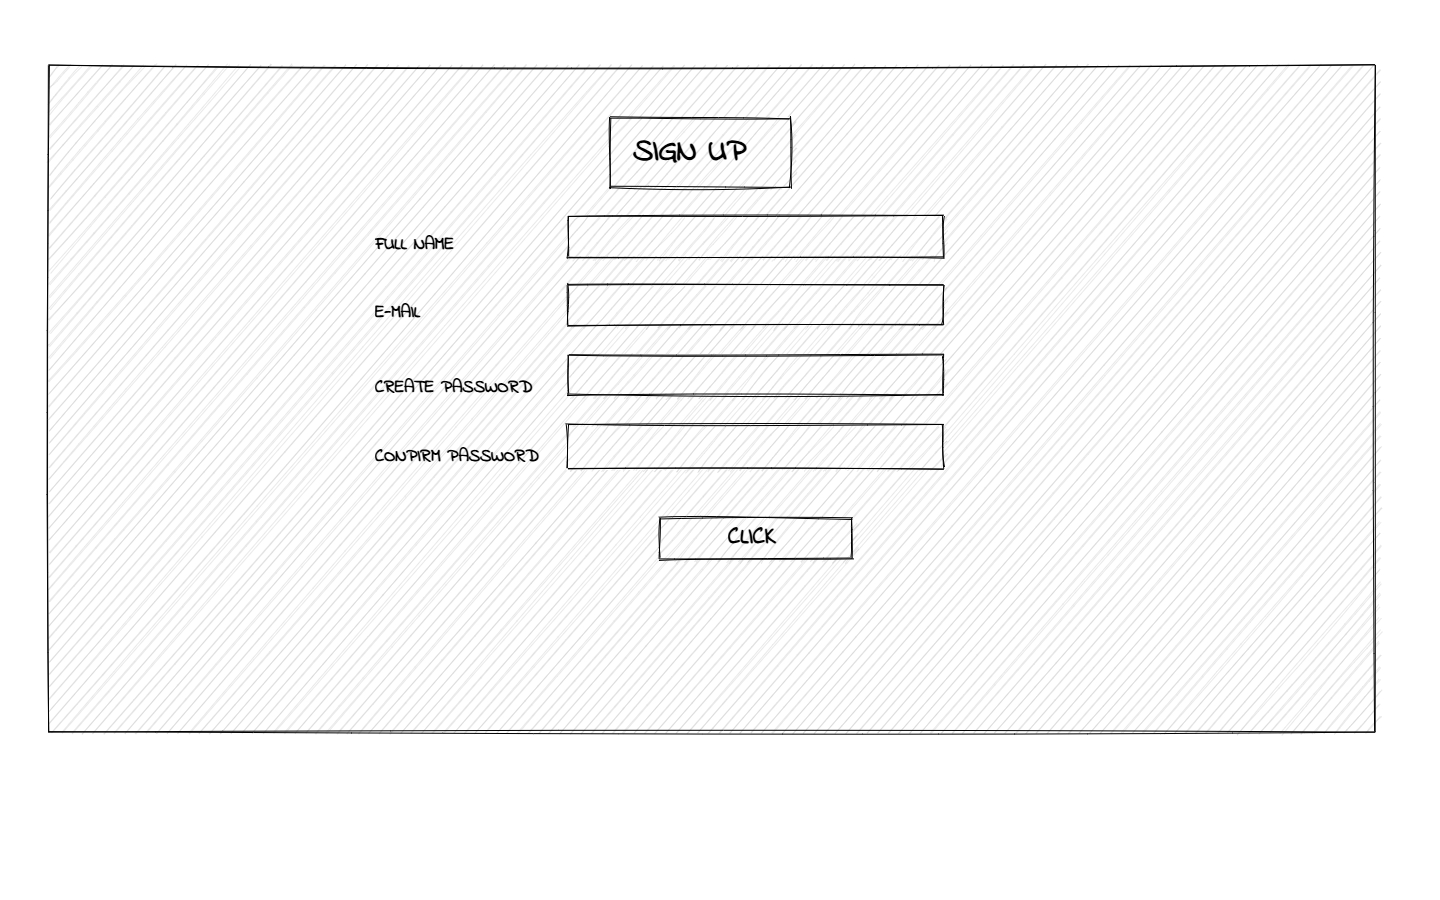
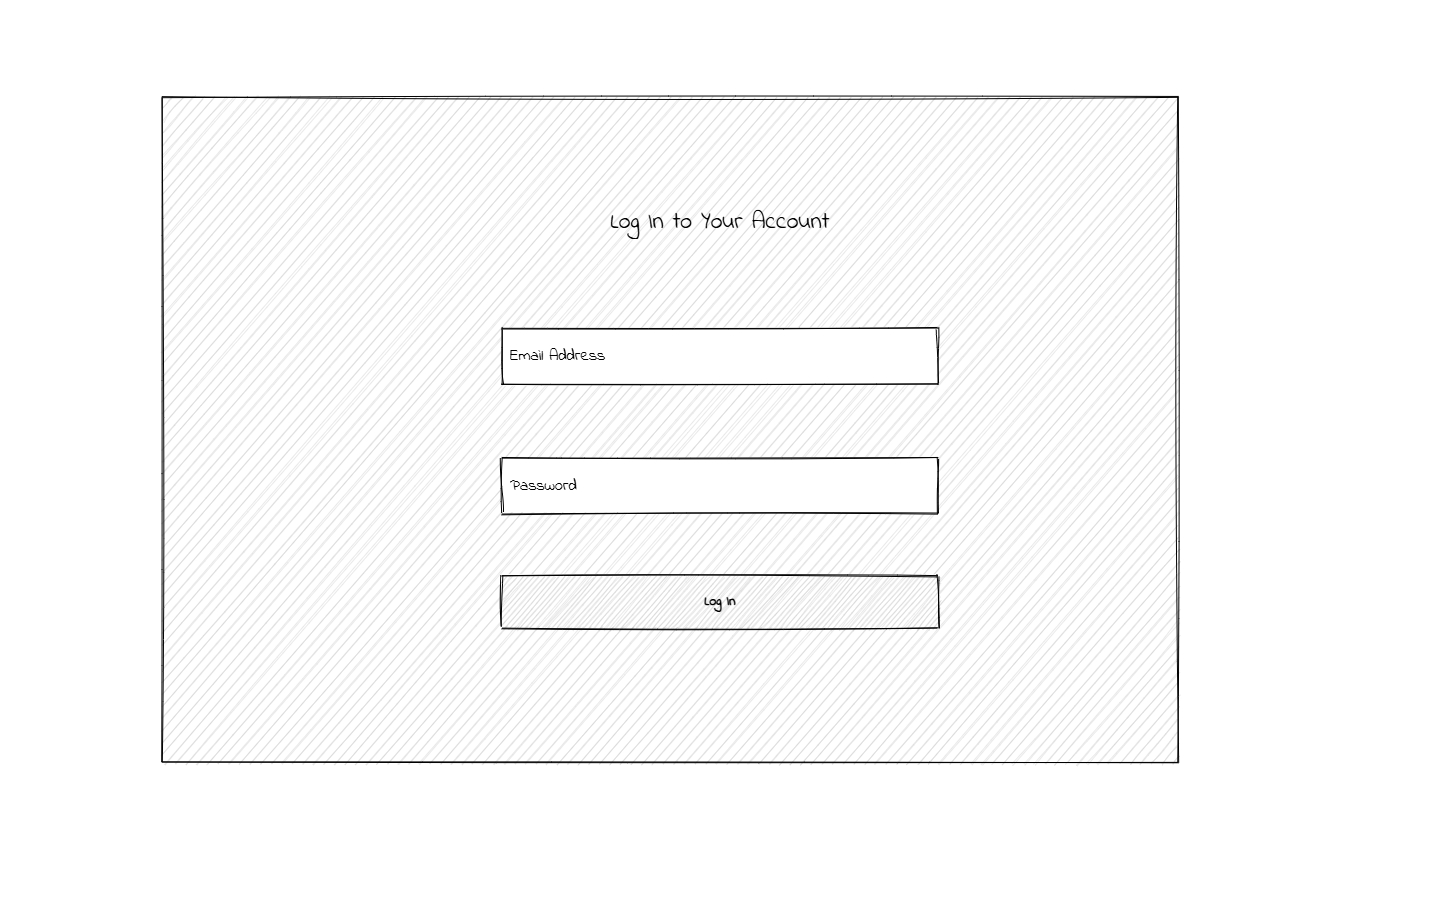
1234

diff --git a/signup.html b/signup.html
@@ -1,0 +1,48 @@
+<!DOCTYPE html>
+<html>
+<head>
+<title>Sign Up</title>
+<style>
+body {
+  font-family: sans-serif;
+}
+form {
+  width: 300px;
+  margin: 0 auto;
+}
+input {
+  width: 100%;
+  padding: 10px;
+  margin-bottom: 10px;
+  box-sizing: border-box;
+}
+button {
+  background-color: #fff;
+  color: black;
+  padding: 10px 20px;
+  border: 1px solid black;
+  cursor: pointer;
+}
+</style>
+</head>
+<body>
+
+<form>
+  <h2>SIGN UP</h2>
+  <label for="fullname">Full Name:</label>
+  <input type="text" id="fullname" name="fullname">
+
+  <label for="email">E-mail:</label>
+  <input type="email" id="email" name="email">
+
+  <label for="password">Create Password:</label>
+  <input type="password" id="password" name="password">
+
+  <label for="confirm_password">Confirm Password:</label>
+  <input type="password" id="confirm_password" name="confirm_password">
+
+  <button type="submit">Click</button>
+</form>
+
+</body>
+</html>

diff --git a/login.html b/login.html
@@ -1,0 +1,42 @@
+<!DOCTYPE html>
+<html>
+<head>
+<title>Log In</title>
+<style>
+body {
+  font-family: sans-serif;
+}
+form {
+  width: 300px;
+  margin: 0 auto;
+}
+input {
+  width: 100%;
+  padding: 10px;
+  margin-bottom: 10px;
+  box-sizing: border-box;
+}
+button {
+  background-color: #fff;
+  color: black;
+  padding: 10px 20px;
+  border: 1px solid black;
+  cursor: pointer;
+}
+</style>
+</head>
+<body>
+
+<form>
+  <h2>Log In to Your Account</h2>
+  <label for="email">Email Address:</label>
+  <input type="email" id="email" name="email">
+
+  <label for="password">Password:</label>
+  <input type="password" id="password" name="password">
+
+  <button type="submit">Log In</button>
+</form>
+
+</body>
+</html>

diff --git a/home.html b/home.html
@@ -1,0 +1,30 @@
+<!DOCTYPE html>
+<html>
+<head>
+<title>Homepage</title>
+<style>
+body {
+  font-family: sans-serif;
+  text-align: center;
+  margin-top: 50px;
+}
+
+.button {
+  display: inline-block;
+  padding: 10px 20px;
+  margin: 20px;
+  border: 1px solid black;
+  text-decoration: none;
+  color: black;
+}
+</style>
+</head>
+<body>
+
+<h1>WELCOME TO MY HOMEPAGE</h1>
+
+<a href="#" class="button">SIGNUP</a>
+<a href="#" class="button">LOGIN</a>
+
+</body>
+</html>
